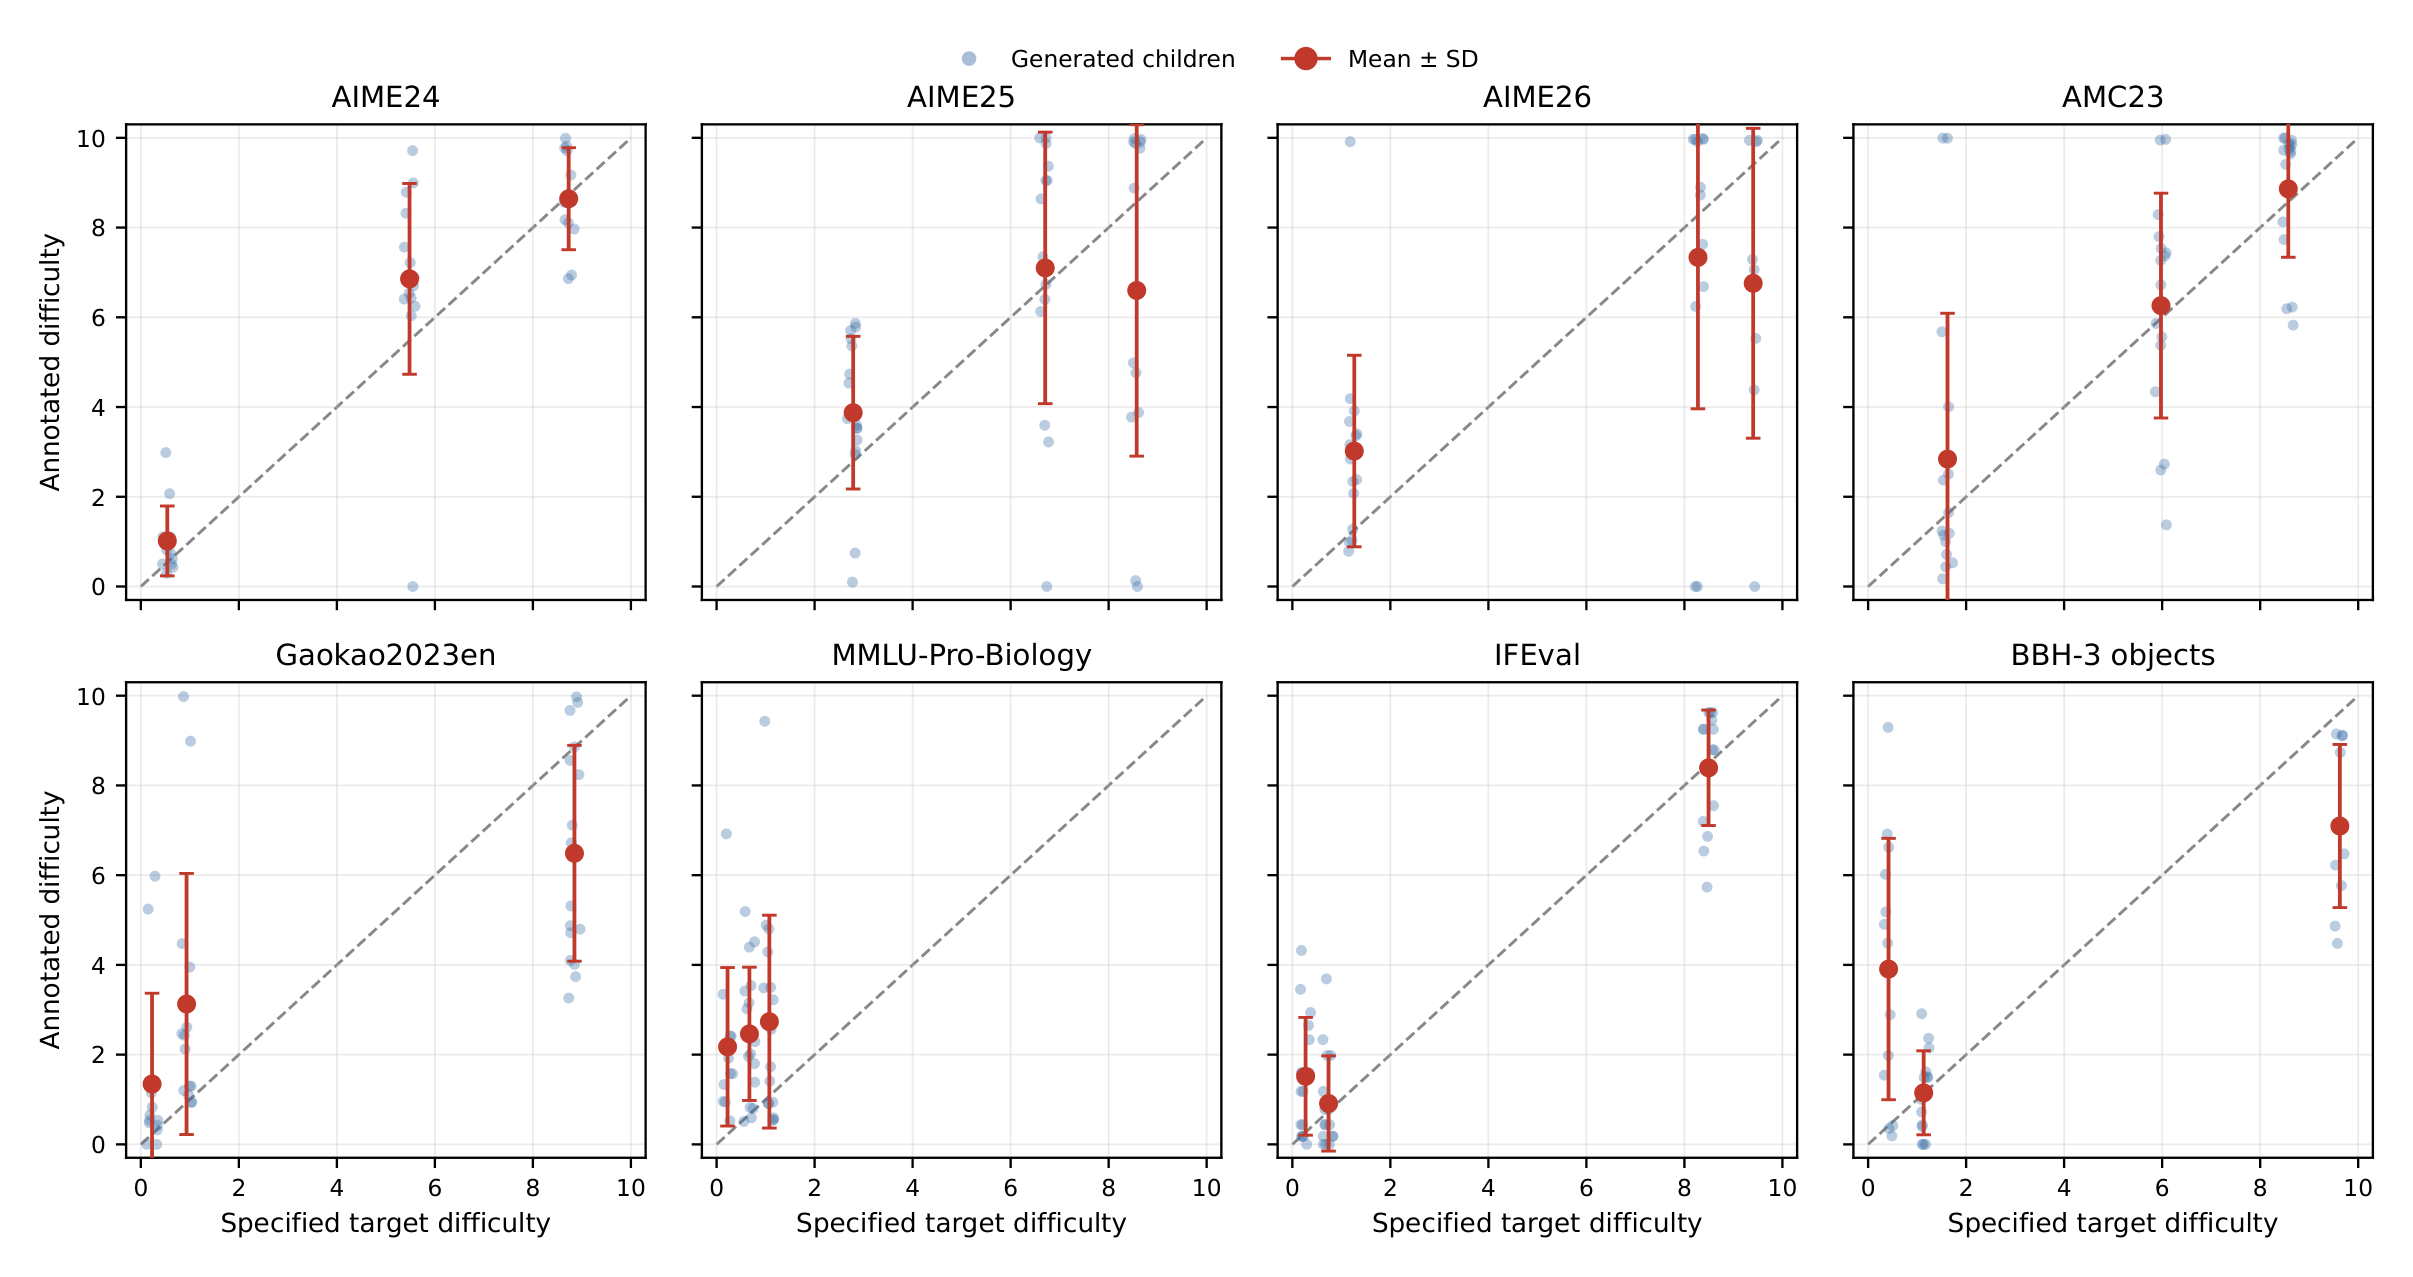
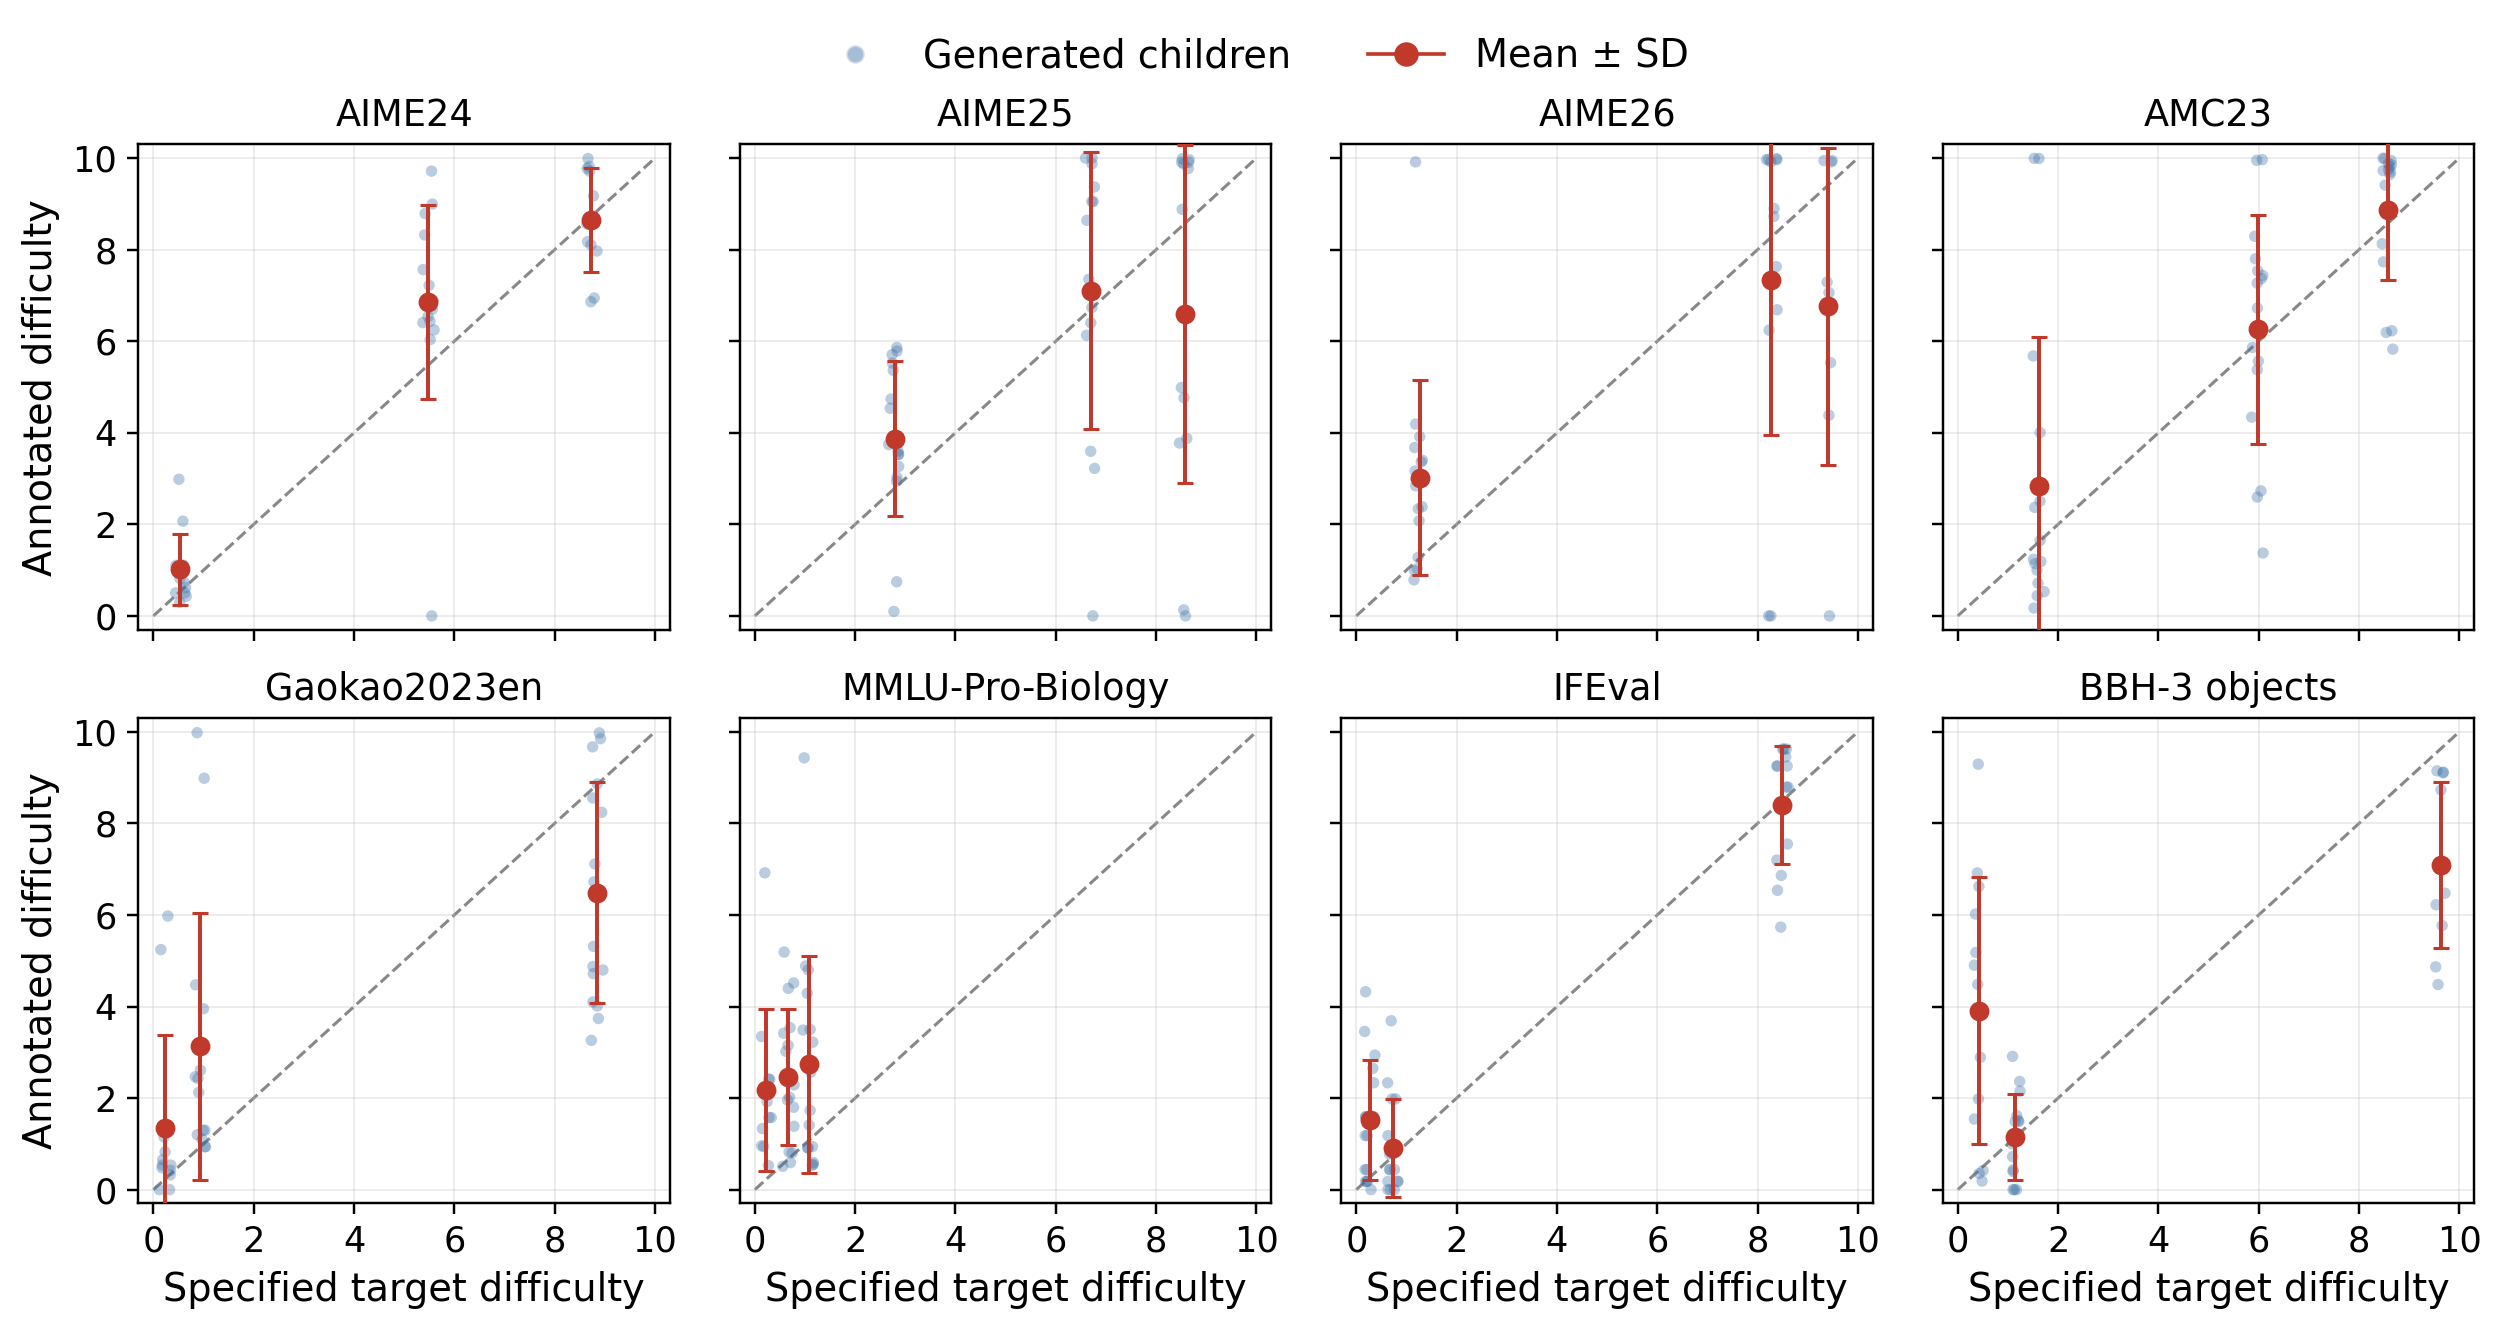
Link the public ASTRAL-Group code repository and use larger-font Figure 6
- Replace the "Code (soon)" button, footer entry, gap-filling note, and
  Table 13 note with links to
  https://github.com/ASTRAL-Group/benchmark-difficulty-measure
  (new_item_records.csv and irt_results there are byte-identical to the
  release the site's data was built from).
- Replace static/images/fig6_first_round.png with the regenerated
  larger-font version of Figure 6 (same data) and update its dimensions.
- Stop extract_figures.py from overwriting Figures 6 and 7; update README.

diff --git a/index.html b/index.html
@@ -80,9 +80,8 @@
     <!-- TODO: replace with the arXiv abstract URL once the arXiv ID is available. -->
     <span class="btn btn-soon" role="link" aria-disabled="true" title="arXiv version coming soon">
       <svg viewBox="0 0 24 24" aria-hidden="true"><path d="M5 3h14a2 2 0 0 1 2 2v14a2 2 0 0 1-2 2H5a2 2 0 0 1-2-2V5a2 2 0 0 1 2-2zm2.2 4 3.3 5-3.3 5h2.4l2.1-3.3 2.1 3.3h2.4l-3.3-5 3.3-5h-2.4l-2.1 3.3L9.6 7z"/></svg>arXiv <span class="soon-tag">soon</span></span>
-    <!-- TODO: restore the link to https://github.com/naicheng-yu/Benchfill once the code repository is public. -->
-    <span class="btn btn-soon" role="link" aria-disabled="true" title="Code release coming soon">
-      <svg viewBox="0 0 24 24" aria-hidden="true"><path d="M12 .5a11.5 11.5 0 0 0-3.64 22.41c.58.1.79-.25.79-.56v-2c-3.2.7-3.88-1.37-3.88-1.37-.52-1.33-1.28-1.69-1.28-1.69-1.05-.71.08-.7.08-.7 1.16.08 1.77 1.19 1.77 1.19 1.03 1.77 2.7 1.26 3.36.96.1-.75.4-1.26.73-1.55-2.55-.29-5.24-1.28-5.24-5.69 0-1.26.45-2.29 1.19-3.1-.12-.29-.52-1.46.11-3.05 0 0 .97-.31 3.17 1.18a11 11 0 0 1 5.77 0c2.2-1.49 3.17-1.18 3.17-1.18.63 1.59.23 2.76.11 3.05.74.81 1.19 1.84 1.19 3.1 0 4.42-2.69 5.39-5.26 5.68.41.36.78 1.06.78 2.14v3.17c0 .31.21.67.8.56A11.5 11.5 0 0 0 12 .5z"/></svg>Code <span class="soon-tag">soon</span></span>
+    <a class="btn" href="https://github.com/ASTRAL-Group/benchmark-difficulty-measure" target="_blank" rel="noopener" title="Code on GitHub">
+      <svg viewBox="0 0 24 24" aria-hidden="true"><path d="M12 .5a11.5 11.5 0 0 0-3.64 22.41c.58.1.79-.25.79-.56v-2c-3.2.7-3.88-1.37-3.88-1.37-.52-1.33-1.28-1.69-1.28-1.69-1.05-.71.08-.7.08-.7 1.16.08 1.77 1.19 1.77 1.19 1.03 1.77 2.7 1.26 3.36.96.1-.75.4-1.26.73-1.55-2.55-.29-5.24-1.28-5.24-5.69 0-1.26.45-2.29 1.19-3.1-.12-.29-.52-1.46.11-3.05 0 0 .97-.31 3.17 1.18a11 11 0 0 1 5.77 0c2.2-1.49 3.17-1.18 3.17-1.18.63 1.59.23 2.76.11 3.05.74.81 1.19 1.84 1.19 3.1 0 4.42-2.69 5.39-5.26 5.68.41.36.78 1.06.78 2.14v3.17c0 .31.21.67.8.56A11.5 11.5 0 0 0 12 .5z"/></svg>Code</a>
     <a class="btn" href="#bibtex" title="Jump to citation">
       <svg viewBox="0 0 24 24" aria-hidden="true"><path d="M6 2h9l5 5v13a2 2 0 0 1-2 2H6a2 2 0 0 1-2-2V4a2 2 0 0 1 2-2zm1.5 9.5v1.7h9v-1.7zm0 3.6v1.7h6v-1.7z"/></svg>BibTeX</a>
   </div>
@@ -321,7 +320,7 @@
     </div>
     <svg id="gf-strip" role="img" aria-label="Normalized item difficulties on the 0 to 1 axis with the three largest gaps highlighted"></svg>
     <div class="gf-zooms" id="gf-zooms"></div>
-    <p class="explorer-note">Shown for the five benchmarks whose item-level difficulty estimates match the paper's Table 1 (AIME24, AIME25, AIME26, Gaokao2023en, IFEval); results for all eight benchmarks are in Table 2 below. The before/after Top-3 Gap Sum reduction equals the BenchFill column of Table 2. Difficulties are IRT estimates on the normalized [0,1] scale, not ground truth.</p>
+    <p class="explorer-note">Shown for the five benchmarks whose item-level difficulty estimates match the paper's Table 1 (AIME24, AIME25, AIME26, Gaokao2023en, IFEval); results for all eight benchmarks are in Table 2 below. Item difficulties and the 24 BenchFill items are from the <a href="https://github.com/ASTRAL-Group/benchmark-difficulty-measure" target="_blank" rel="noopener">code release</a>. The before/after Top-3 Gap Sum reduction equals the BenchFill column of Table 2. Difficulties are IRT estimates on the normalized [0,1] scale, not ground truth.</p>
   </div>
 </section>
 
@@ -415,7 +414,7 @@
       </div>
     </article>
   </div>
-  <p class="small-note">Item text as shown in the paper's Table 13. All 24 gap-filling items, with answers, parents, targets, and annotated difficulties, will be released with the code.</p>
+  <p class="small-note">Item text as shown in the paper's Table 13. All 24 gap-filling items, with answers, parents, targets, and annotated difficulties, are in <a href="https://github.com/ASTRAL-Group/benchmark-difficulty-measure/blob/main/new_item_records.csv" target="_blank" rel="noopener"><code>new_item_records.csv</code></a> in the <a href="https://github.com/ASTRAL-Group/benchmark-difficulty-measure" target="_blank" rel="noopener">code release</a>.</p>
 </section>
 
 <!-- ============================== MORE ============================== -->
@@ -431,7 +430,7 @@
     </div>
     <figure class="tab-panel" role="tabpanel" id="panel-fig6" aria-labelledby="tab-fig6">
       <a class="zoomable" href="./static/images/fig6_first_round.png" data-caption="Figure 6: First-round alignment of specified target difficulty and annotated difficulty.">
-        <img src="./static/images/fig6_first_round.png" width="2413" height="1277" loading="lazy" alt="Figure 6. Eight panels, one per benchmark, plotting the annotated difficulty of valid first-round children against the specified target difficulty on a 0 to 10 scale, with per-target mean and standard deviation and a dashed diagonal for perfect alignment.">
+        <img src="./static/images/fig6_first_round.png" width="2503" height="1331" loading="lazy" alt="Figure 6. Eight panels, one per benchmark, plotting the annotated difficulty of valid first-round children against the specified target difficulty on a 0 to 10 scale, with per-target mean and standard deviation and a dashed diagonal for perfect alignment.">
       </a>
       <figcaption><b>First-round alignment of specified target difficulty and annotated difficulty.</b> Each panel corresponds to one benchmark. The horizontal axis shows the specified target difficulty, and the vertical axis shows the annotated difficulty of valid first-round children. Blue points denote individual generated children, and red markers denote the mean and standard deviation for each target difficulty. The dashed diagonal indicates perfect alignment. For readability, both axes are shown on a 0&ndash;10 scale, corresponding to normalized difficulties in [0,&nbsp;1] multiplied by 10. Within most benchmarks, higher specified targets produce higher annotated difficulties already in the first round, before any iterative feedback is incorporated. <span class="fig-src">(Paper, Figure 6)</span></figcaption>
     </figure>
@@ -490,7 +489,7 @@
 <footer class="footer">
   <div class="wrap">
     <p class="footer-title">Your Benchmark Is an Empirical Measure Over Difficulty</p>
-    <p class="footer-links"><a href="./static/pdf/benchfill_paper.pdf" target="_blank" rel="noopener">Paper</a><span aria-hidden="true">&middot;</span><span>Code (coming soon)</span><span aria-hidden="true">&middot;</span><a href="#bibtex">BibTeX</a></p>
+    <p class="footer-links"><a href="./static/pdf/benchfill_paper.pdf" target="_blank" rel="noopener">Paper</a><span aria-hidden="true">&middot;</span><a href="https://github.com/ASTRAL-Group/benchmark-difficulty-measure" target="_blank" rel="noopener">Code</a><span aria-hidden="true">&middot;</span><a href="#bibtex">BibTeX</a></p>
     <p>Correspondence: <a href="mailto:yifan50@illinois.edu">yifan50@illinois.edu</a>, <a href="mailto:huan@huan-zhang.com">huan@huan-zhang.com</a></p>
     <p class="footer-credit">Page layout inspired by the <a href="https://agent-tts.github.io/agent-tts/" target="_blank" rel="noopener">Agent-TTS</a> project page.</p>
   </div>

diff --git a/scripts/extract_figures.py b/scripts/extract_figures.py
@@ -20,9 +20,9 @@ FIGURES = [
     ("fig1_teaser", 2, "Figure 1"),
     ("fig2_pipeline", 5, "Figure 2"),
     ("fig4_benchfill", 8, "Figure 4"),
-    ("fig6_first_round", 36, "Figure 6"),
-    ("fig7_multi_round", 36, "Figure 7"),
 ]
+# Figures 6 and 7 (fig6_first_round.png, fig7_multi_round.png) are NOT extracted from the PDF:
+# the site uses the regenerated larger-font versions of the same plots (see README).
 
 # Figure 5 panels (page 35): title text -> (column, row). Used as static fallbacks
 # in the explorer for benchmarks whose item-level difficulties are not bundled.

diff --git a/README.md b/README.md
@@ -4,7 +4,7 @@ Project website for the paper **Your Benchmark Is an Empirical Measure Over Diff
 (Yifan Sun\*, Naicheng Yu\*, Jiawen Gong\*, Jingyan Shen, Huan Zhang; \*equal contribution).
 
 - Website (after deployment): https://naicheng-yu.github.io/Benchfill-Website/
-- Code: https://github.com/naicheng-yu/Benchfill (to be made public)
+- Code: https://github.com/ASTRAL-Group/benchmark-difficulty-measure
 
 This is a plain static site with no build step. It runs from the repository root on GitHub Pages
 and uses relative paths only, so it works under the `/Benchfill-Website/` sub-path.
@@ -60,7 +60,11 @@ cd benchfill-website && python3 -m http.server 8000   # http://localhost:8000/
   shows only the benchmarks whose item-level data also reproduces Table 1 (AIME24, AIME25, AIME26,
   Gaokao2023en, IFEval). Table 2 and its chart show the paper's values for all eight.
 - **Displayed metrics** (tiles, tables, chart) always use the paper's reported values, never recomputed ones.
-- **Figures.** Rendered at 432 dpi directly from the vector paper PDF by `scripts/extract_figures.py`.
+- **Figures.** Rendered at 432 dpi directly from the vector paper PDF by `scripts/extract_figures.py`,
+  except Figures 6 and 7, which use the regenerated larger-font versions of the same plots
+  (`rebuttal_analysis/first_round/first_round_calibration_filtered.png` and
+  `rebuttal_analysis/multiround/multiround_target_deviation_selected.png` in the experiment workspace).
+  `extract_figures.py` leaves them untouched.
 - The measure-view schematic in the "Measure View" section is illustrative and labelled as such.
 
 To regenerate (PyMuPDF and NumPy required):
@@ -72,8 +76,7 @@ python scripts/extract_figures.py ../path/to/paper.pdf static/images
 
 ## Things to update at release
 
-- `index.html`: replace the grey **arXiv (soon)** and **Code (soon)** buttons with real links
-  (search for `TODO`), restore code links in the footer, gap-filling note, and Table 13 note, and
+- `index.html`: replace the grey **arXiv (soon)** button with the arXiv link (search for `TODO`) and
   update the BibTeX entry with arXiv metadata.
 - `static/pdf/benchfill_paper.pdf`: replace if the paper is revised.
 
